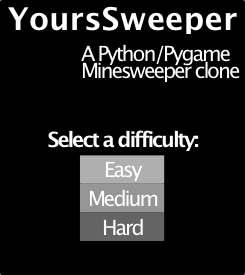
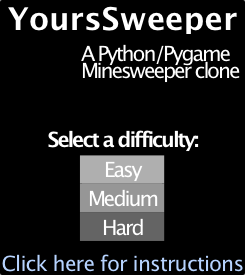
Add instructions link on opening screen

Changed region(s): [[0.0, 0.9018, 0.5143, 0.9891], [0.5429, 0.9309, 1.0, 0.9891]]

diff --git a/YoursSweeper.py b/YoursSweeper.py
@@ -4,6 +4,7 @@ from pygame.locals import *
 import random
 import itertools as it
 import numpy as np
+import webbrowser
 
 
 BLACK    = (   0,   0,   0)
@@ -30,8 +31,11 @@ def opening_click_button(mouse_pos):
         elif 184 <= mouse_pos[1] < 212:
             return Game((16, 16), 40)
         elif 212 <= mouse_pos[1] <= 240:
-            return Game((16, 31), 1)
+            return Game((16, 31), 99)
     
+    if mouse_pos[1] > 250:
+        webbrowser.open_new_tab('http://en.wikipedia.org/wiki/'
+                                'Minesweeper_(game)#Overview)')
     return False
 
 
@@ -80,7 +84,7 @@ def init_grid(grid_size, mine_count):
         grid[mine_loc//grid_size[1]][mine_loc%grid_size[1]] = -1
     
     # Set all non-mine cell's value to the number of adjacent mines
-    for r, c in it.product(range(grid_size[0]), range(grid_size[1])):
+    for r, c in np.ndindex(*grid_size):
         if grid[r][c] != -1:
             grid[r][c] = count_adjacent_mines(grid, r, c)
 
@@ -272,7 +276,8 @@ class Game(object):
 
                     # Set/unset flag
                     if row < self.grid_size[0] and col < self.grid_size[1]:
-                        if self.visible_grid[row][col] == -2:
+                        if (self.visible_grid[row][col] == -2 and 
+                            count_flags(self.visible_grid) < self.mine_amt):
                                 self.visible_grid[row][col] = -4
                         elif self.visible_grid[row][col] == -4:
                                 self.visible_grid[row][col] = -2
